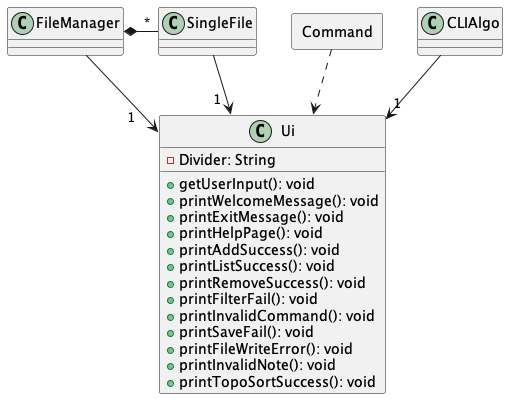
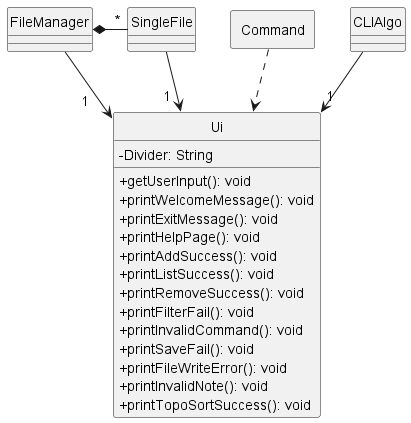
Add design for Ui class to DG and update Ui class diagram

diff --git a/docs/DeveloperGuide.md b/docs/DeveloperGuide.md
@@ -33,6 +33,17 @@ The **_Sequence Diagram_** below shows a high level overview of how the componen
 
 ![](.\\sequence\\diagrams\\Architecture.png "Filter by Topic Sequence Diagram")
 
+### Ui
+**API** : Ui.java
+Here is a class diagram of the `Ui` component which is responsible for handling all interactin with the User.
+
+![](.\\uml\\diagrams\\UiClass.png "Parser Class Diagram")
+
+The `Ui` component:
+- Reads in the full command keyed in by the user for the `Parser`.
+- Prints error messages when the user provides invalid inputs.
+- Prints confirmation message when a command have been executed successfully.
+
 ### Parser
 **API** : `Parser.java`
 Here is a class diagram of the `Parser` component which is responsible for processing commands
@@ -41,14 +52,12 @@ and preparing the appropriate `Command` object.
 ![](.\\uml\\diagrams\\ParserClass.png "Parser Class Diagram")
 
 The `Parser` component:
-
 - Reads in the full command keyed in by the user through the `Ui` class.
 - Extracts out the keywords from the command such as `command type`, `topic`, `file name` using
 the `StringManipulation` interface.
 - Verify the validity of the user's input command.
 - Handle cases where the user keys in an invalid command.
 - Returns the appropriate `Command` object that will be executed by `CLIAlgo`.
-
 
 ### Storage
 **API** : `FileManager.java`
@@ -67,6 +76,17 @@ corresponding `Topic`'s  `.txt`
 - reads from each `Topic`'s  `.txt` and returns a `Topic` object when
 initializing the application
 
+#### Add
+**API** : `AddCommand.java`
+
+Here is a class diagram of the `AddCommand` which is responsible for adding either code files or note files
+
+![](.\\uml\\diagrams\\Add.png "AddCommand Class Diagram")
+
+The `AddCommand` component
+- can check if the CS2040CFile to be added into our CLIAlgo exists within the same directory as the program
+- can check for the type of CS2040CFile, whether it is `.txt` or `.cpp` based on the name of the CS2040CFile
+- can ensure that there are no files with repeated names such that all names of files added are unique
 
 ### TopoSort
 **API** : `TopoCommand.java`
@@ -81,18 +101,6 @@ The `TopoCommand` component
 - can print out the list of topologically sorted `CS2040CFile` objects
 - can check whether there are `CS2040CFile` objects within `CLIAlgo` and inform user if no such objects are saved
 
-
-#### Add
-**API** : `AddCommand.java`
-
-Here is a class diagram of the `AddCommand` which is responsible for adding either code files or note files
-
-![](.\\uml\\diagrams\\Add.png "AddCommand Class Diagram")
-
-The `AddCommand` component
-- can check if the CS2040CFile to be added into our CLIAlgo exists within the same directory as the program
-- can check for the type of CS2040CFile, whether it is `.txt` or `.cpp` based on the name of the CS2040CFile
-- can ensure that there are no files with repeated names such that all names of files added are unique
 
 #### Filter
 **API** : `FilterCommand.java`
